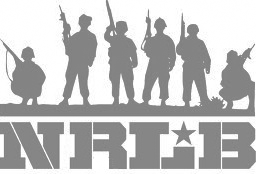
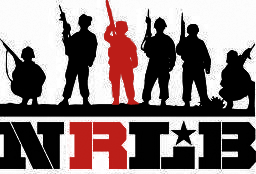
anged graphics and buttons

diff --git a/templates/shuttle.html b/templates/shuttle.html
@@ -76,8 +76,8 @@ $(document).ready(function()
     	<div class="control-group">
             <label class="control-label" for="select01">Leave From:</label>
             <div class="btn-group">
-              <button class="btn btn-primary" onClick="$('.south-pickup').hide();$('.north-pickup').show();">Austin Office</button>
-              <button class="btn" onClick="$('.north-pickup').hide();$('.south-pickup').show();">Southpark Meadows</button>
+              <button type="button" class="btn btn-primary" onClick="$('.south-pickup').hide();$('.north-pickup').show();">Austin Office</button>
+              <button type="button" class="btn" onClick="$('.north-pickup').hide();$('.south-pickup').show();">Southpark Meadows</button>
             </div>
           </div>
           
